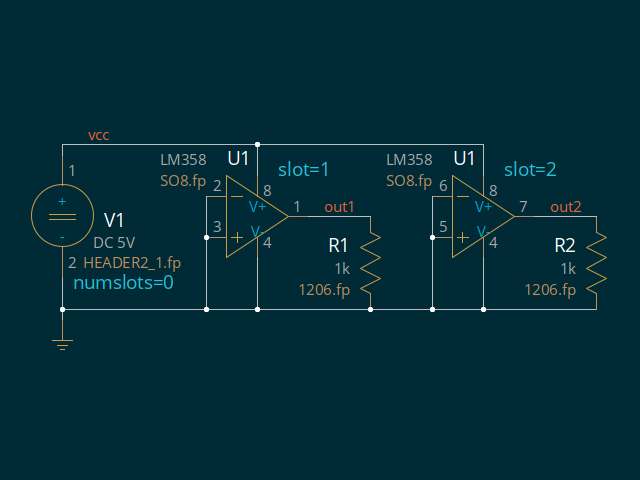
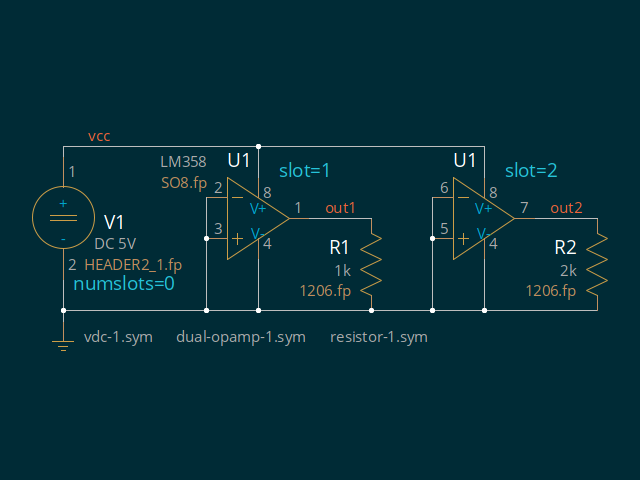
sch/slots: show symbol file names

diff --git a/sch/slots/slots.sch.html b/sch/slots/slots.sch.html
@@ -115,11 +115,11 @@ if ('onhashchange' in window) {
 <span id="L63" class="LineNr">63 </span>symversion=<span class="Float">0.2</span>
 <span id="L64" class="LineNr">64 </span>T <span class="Number">44900</span> <span class="Number">42600</span> <span class="Number">21</span> <span class="Number">10</span> <span class="Number">1</span> <span class="Number">1</span> <span class="Number">0</span> <span class="Number">0</span> <span class="Number">1</span>
 <span id="L65" class="LineNr">65 </span>refdes=U1
-<span id="L66" class="LineNr">66 </span>T <span class="Number">44700</span> <span class="Number">42400</span> <span class="Number">1</span> <span class="Number">8</span> <span class="Number">1</span> <span class="Number">1</span> <span class="Number">0</span> <span class="Number">6</span> <span class="Number">1</span>
+<span id="L66" class="LineNr">66 </span>T <span class="Number">44700</span> <span class="Number">42400</span> <span class="Number">1</span> <span class="Number">8</span> <span class="Number">0</span> <span class="Number">1</span> <span class="Number">0</span> <span class="Number">6</span> <span class="Number">1</span>
 <span id="L67" class="LineNr">67 </span>footprint=SO8.fp
 <span id="L68" class="LineNr">68 </span>T <span class="Number">45400</span> <span class="Number">42500</span> <span class="Number">10</span> <span class="Number">10</span> <span class="Number">1</span> <span class="Number">0</span> <span class="Number">0</span> <span class="Number">0</span> <span class="Number">1</span>
 <span id="L69" class="LineNr">69 </span>slot=<span class="Number">2</span>
-<span id="L70" class="LineNr">70 </span>T <span class="Number">44700</span> <span class="Number">42600</span> <span class="Number">5</span> <span class="Number">8</span> <span class="Number">1</span> <span class="Number">1</span> <span class="Number">0</span> <span class="Number">6</span> <span class="Number">1</span>
+<span id="L70" class="LineNr">70 </span>T <span class="Number">44700</span> <span class="Number">42600</span> <span class="Number">5</span> <span class="Number">8</span> <span class="Number">0</span> <span class="Number">1</span> <span class="Number">0</span> <span class="Number">6</span> <span class="Number">1</span>
 <span id="L71" class="LineNr">71 </span>value=LM358
 <span id="L72" class="LineNr">72 </span>}
 <span id="L73" class="LineNr">73 </span>N <span class="Number">44700</span> <span class="Number">42300</span> <span class="Number">44700</span> <span class="Number">41200</span> <span class="Number">4</span>
@@ -132,7 +132,7 @@ if ('onhashchange' in window) {
 <span id="L80" class="LineNr">80 </span>T <span class="Number">46100</span> <span class="Number">41300</span> <span class="Number">1</span> <span class="Number">8</span> <span class="Number">1</span> <span class="Number">1</span> <span class="Number">180</span> <span class="Number">2</span> <span class="Number">1</span>
 <span id="L81" class="LineNr">81 </span>footprint=<span class="Float">1206.f</span>p
 <span id="L82" class="LineNr">82 </span>T <span class="Number">46100</span> <span class="Number">41500</span> <span class="Number">5</span> <span class="Number">8</span> <span class="Number">1</span> <span class="Number">1</span> <span class="Number">180</span> <span class="Number">2</span> <span class="Number">1</span>
-<span id="L83" class="LineNr">83 </span>value=1k
+<span id="L83" class="LineNr">83 </span>value=2k
 <span id="L84" class="LineNr">84 </span>T <span class="Number">46100</span> <span class="Number">41700</span> <span class="Number">21</span> <span class="Number">10</span> <span class="Number">1</span> <span class="Number">1</span> <span class="Number">180</span> <span class="Number">2</span> <span class="Number">1</span>
 <span id="L85" class="LineNr">85 </span>refdes=R2
 <span id="L86" class="LineNr">86 </span>}
@@ -141,6 +141,12 @@ if ('onhashchange' in window) {
 <span id="L89" class="LineNr">89 </span>T <span class="Number">46000</span> <span class="Number">42150</span> <span class="Number">6</span> <span class="Number">8</span> <span class="Number">1</span> <span class="Number">1</span> <span class="Number">0</span> <span class="Number">3</span> <span class="Number">1</span>
 <span id="L90" class="LineNr">90 </span>netname=out2
 <span id="L91" class="LineNr">91 </span>}
+<span id="L92" class="LineNr">92 </span>T <span class="Number">41300</span> <span class="Number">40900</span> <span class="Number">5</span> <span class="Number">8</span> <span class="Number">1</span> <span class="Number">0</span> <span class="Number">0</span> <span class="Number">0</span> <span class="Number">1</span>
+<span id="L93" class="LineNr">93 </span>vdc-<span class="Float">1.</span>sym
+<span id="L94" class="LineNr">94 </span>T <span class="Number">43700</span> <span class="Number">40900</span> <span class="Number">5</span> <span class="Number">8</span> <span class="Number">1</span> <span class="Number">0</span> <span class="Number">0</span> <span class="Number">0</span> <span class="Number">1</span>
+<span id="L95" class="LineNr">95 </span>resistor-<span class="Float">1.</span>sym
+<span id="L96" class="LineNr">96 </span>T <span class="Number">42200</span> <span class="Number">40900</span> <span class="Number">5</span> <span class="Number">8</span> <span class="Number">1</span> <span class="Number">0</span> <span class="Number">0</span> <span class="Number">0</span> <span class="Number">1</span>
+<span id="L97" class="LineNr">97 </span>dual-opamp-<span class="Float">1.</span>sym
 </pre>
 </body>
 </html>
